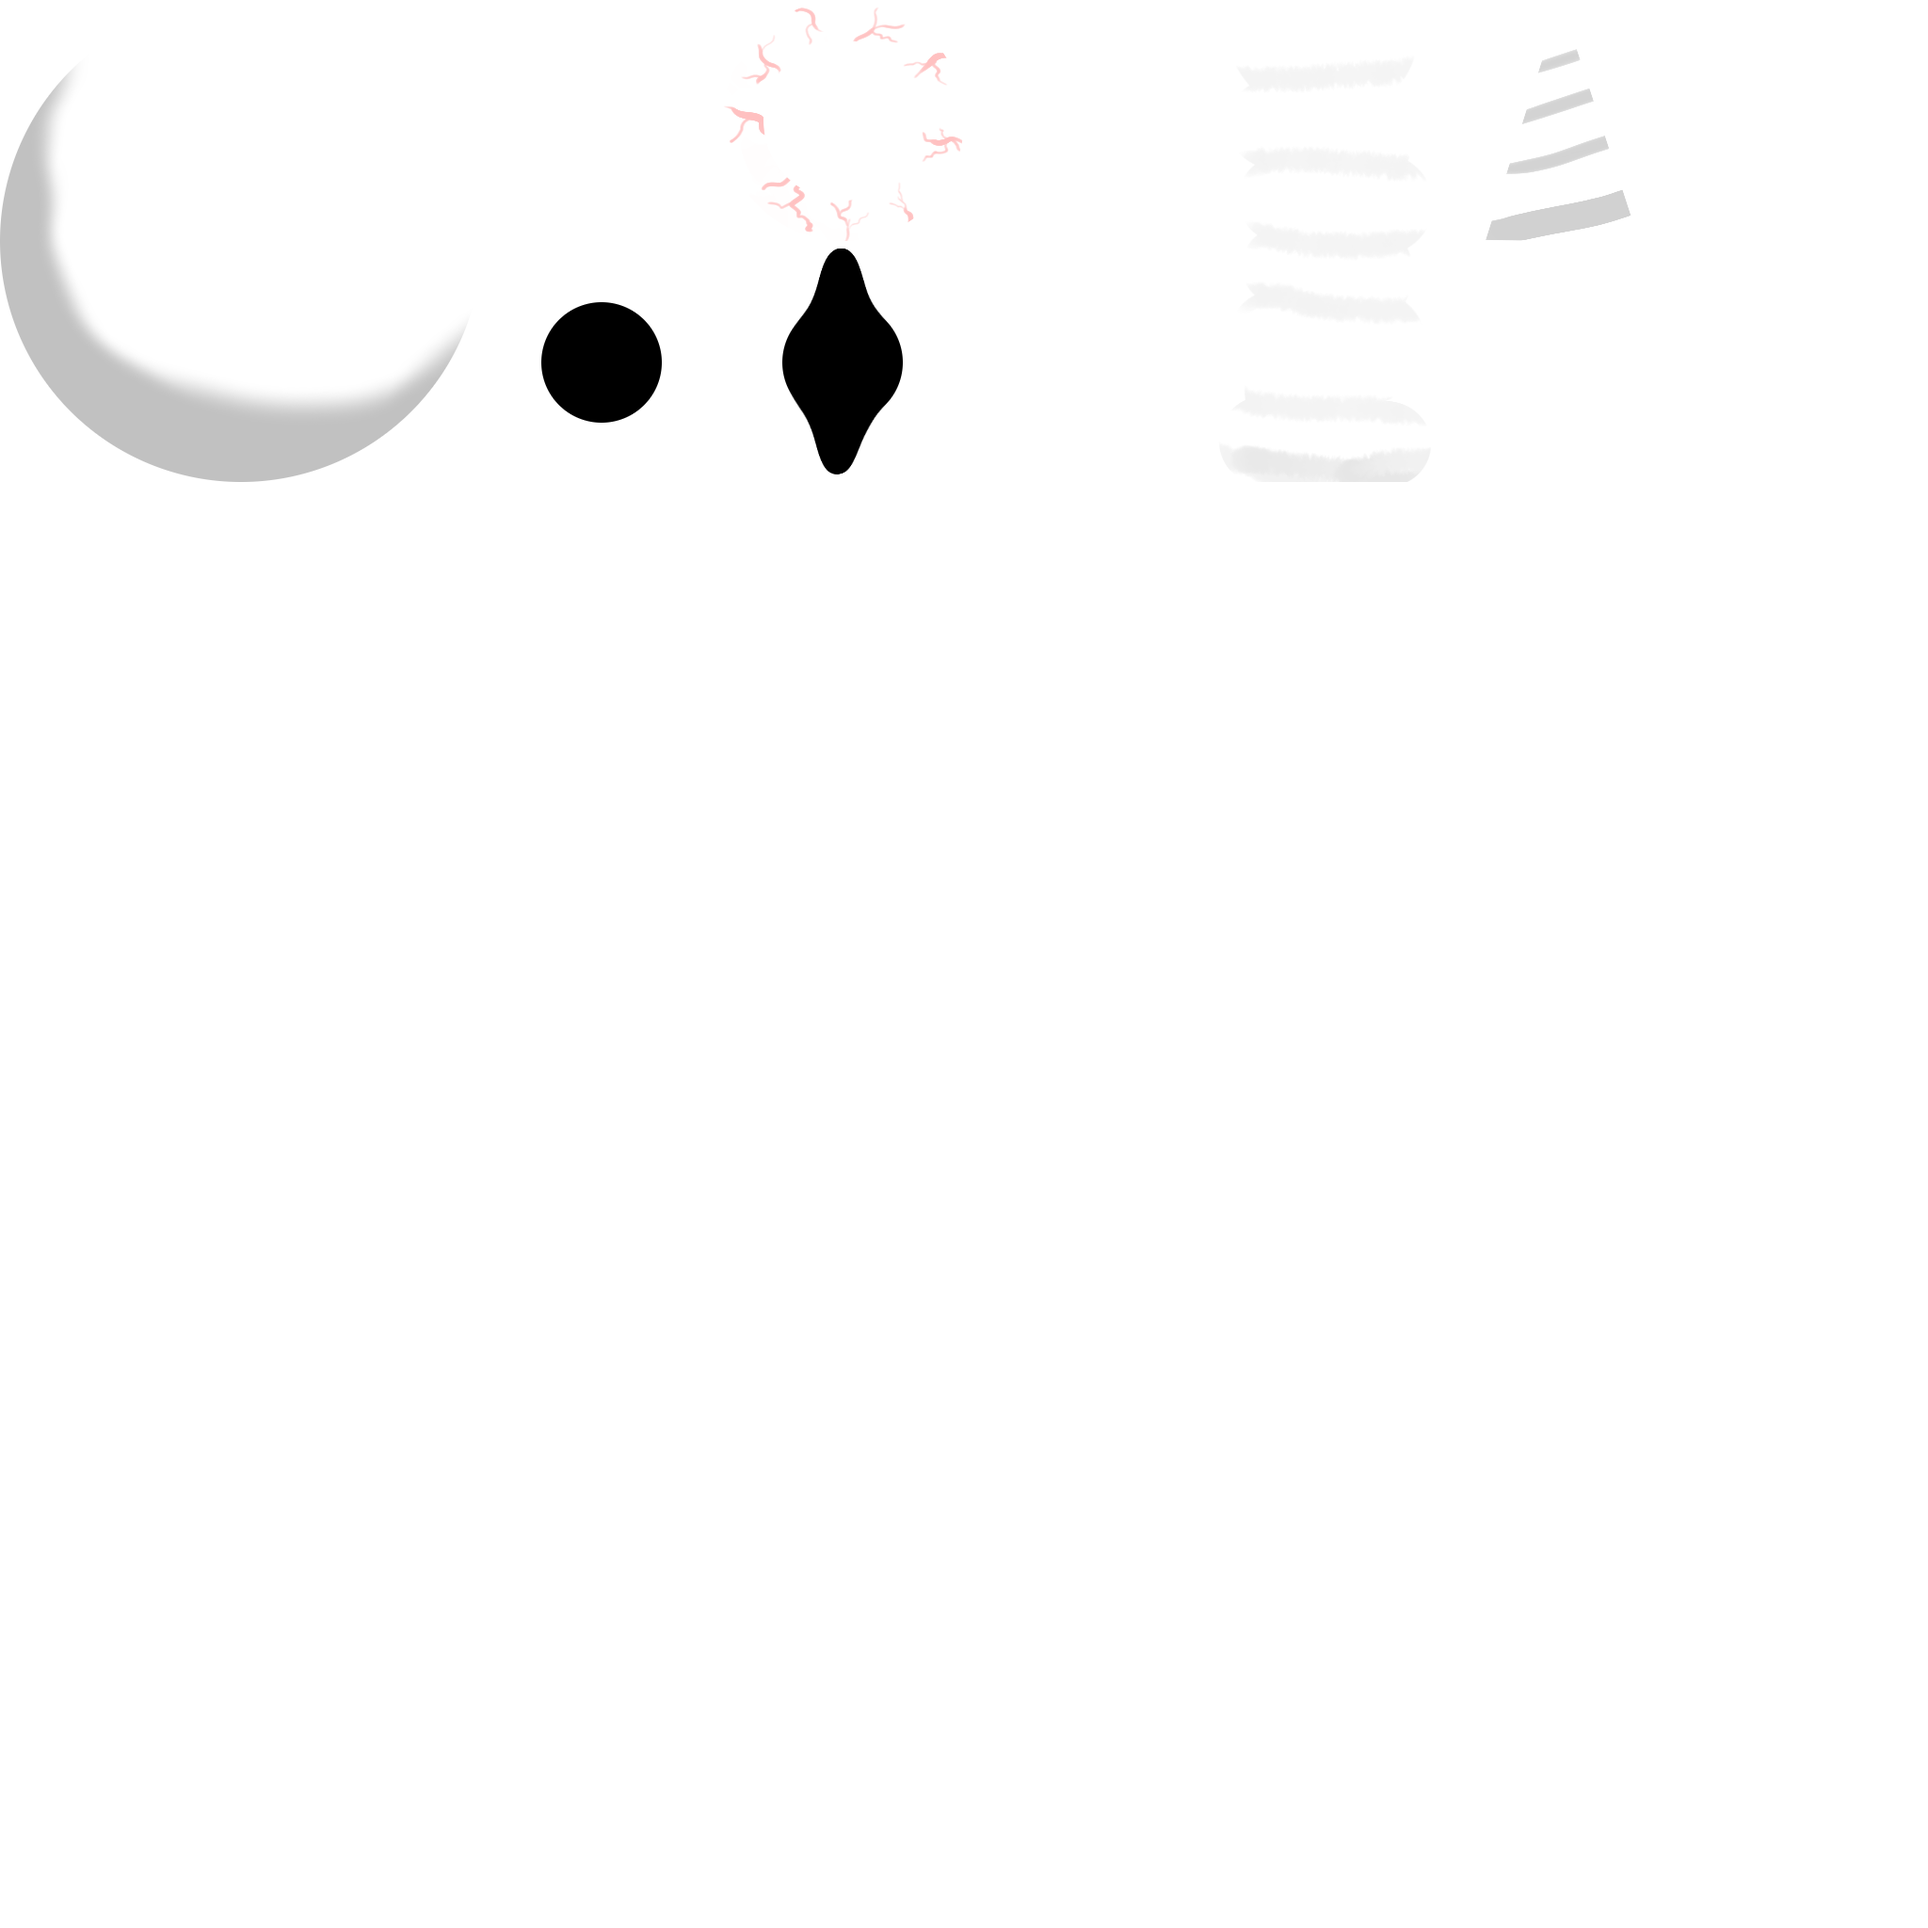
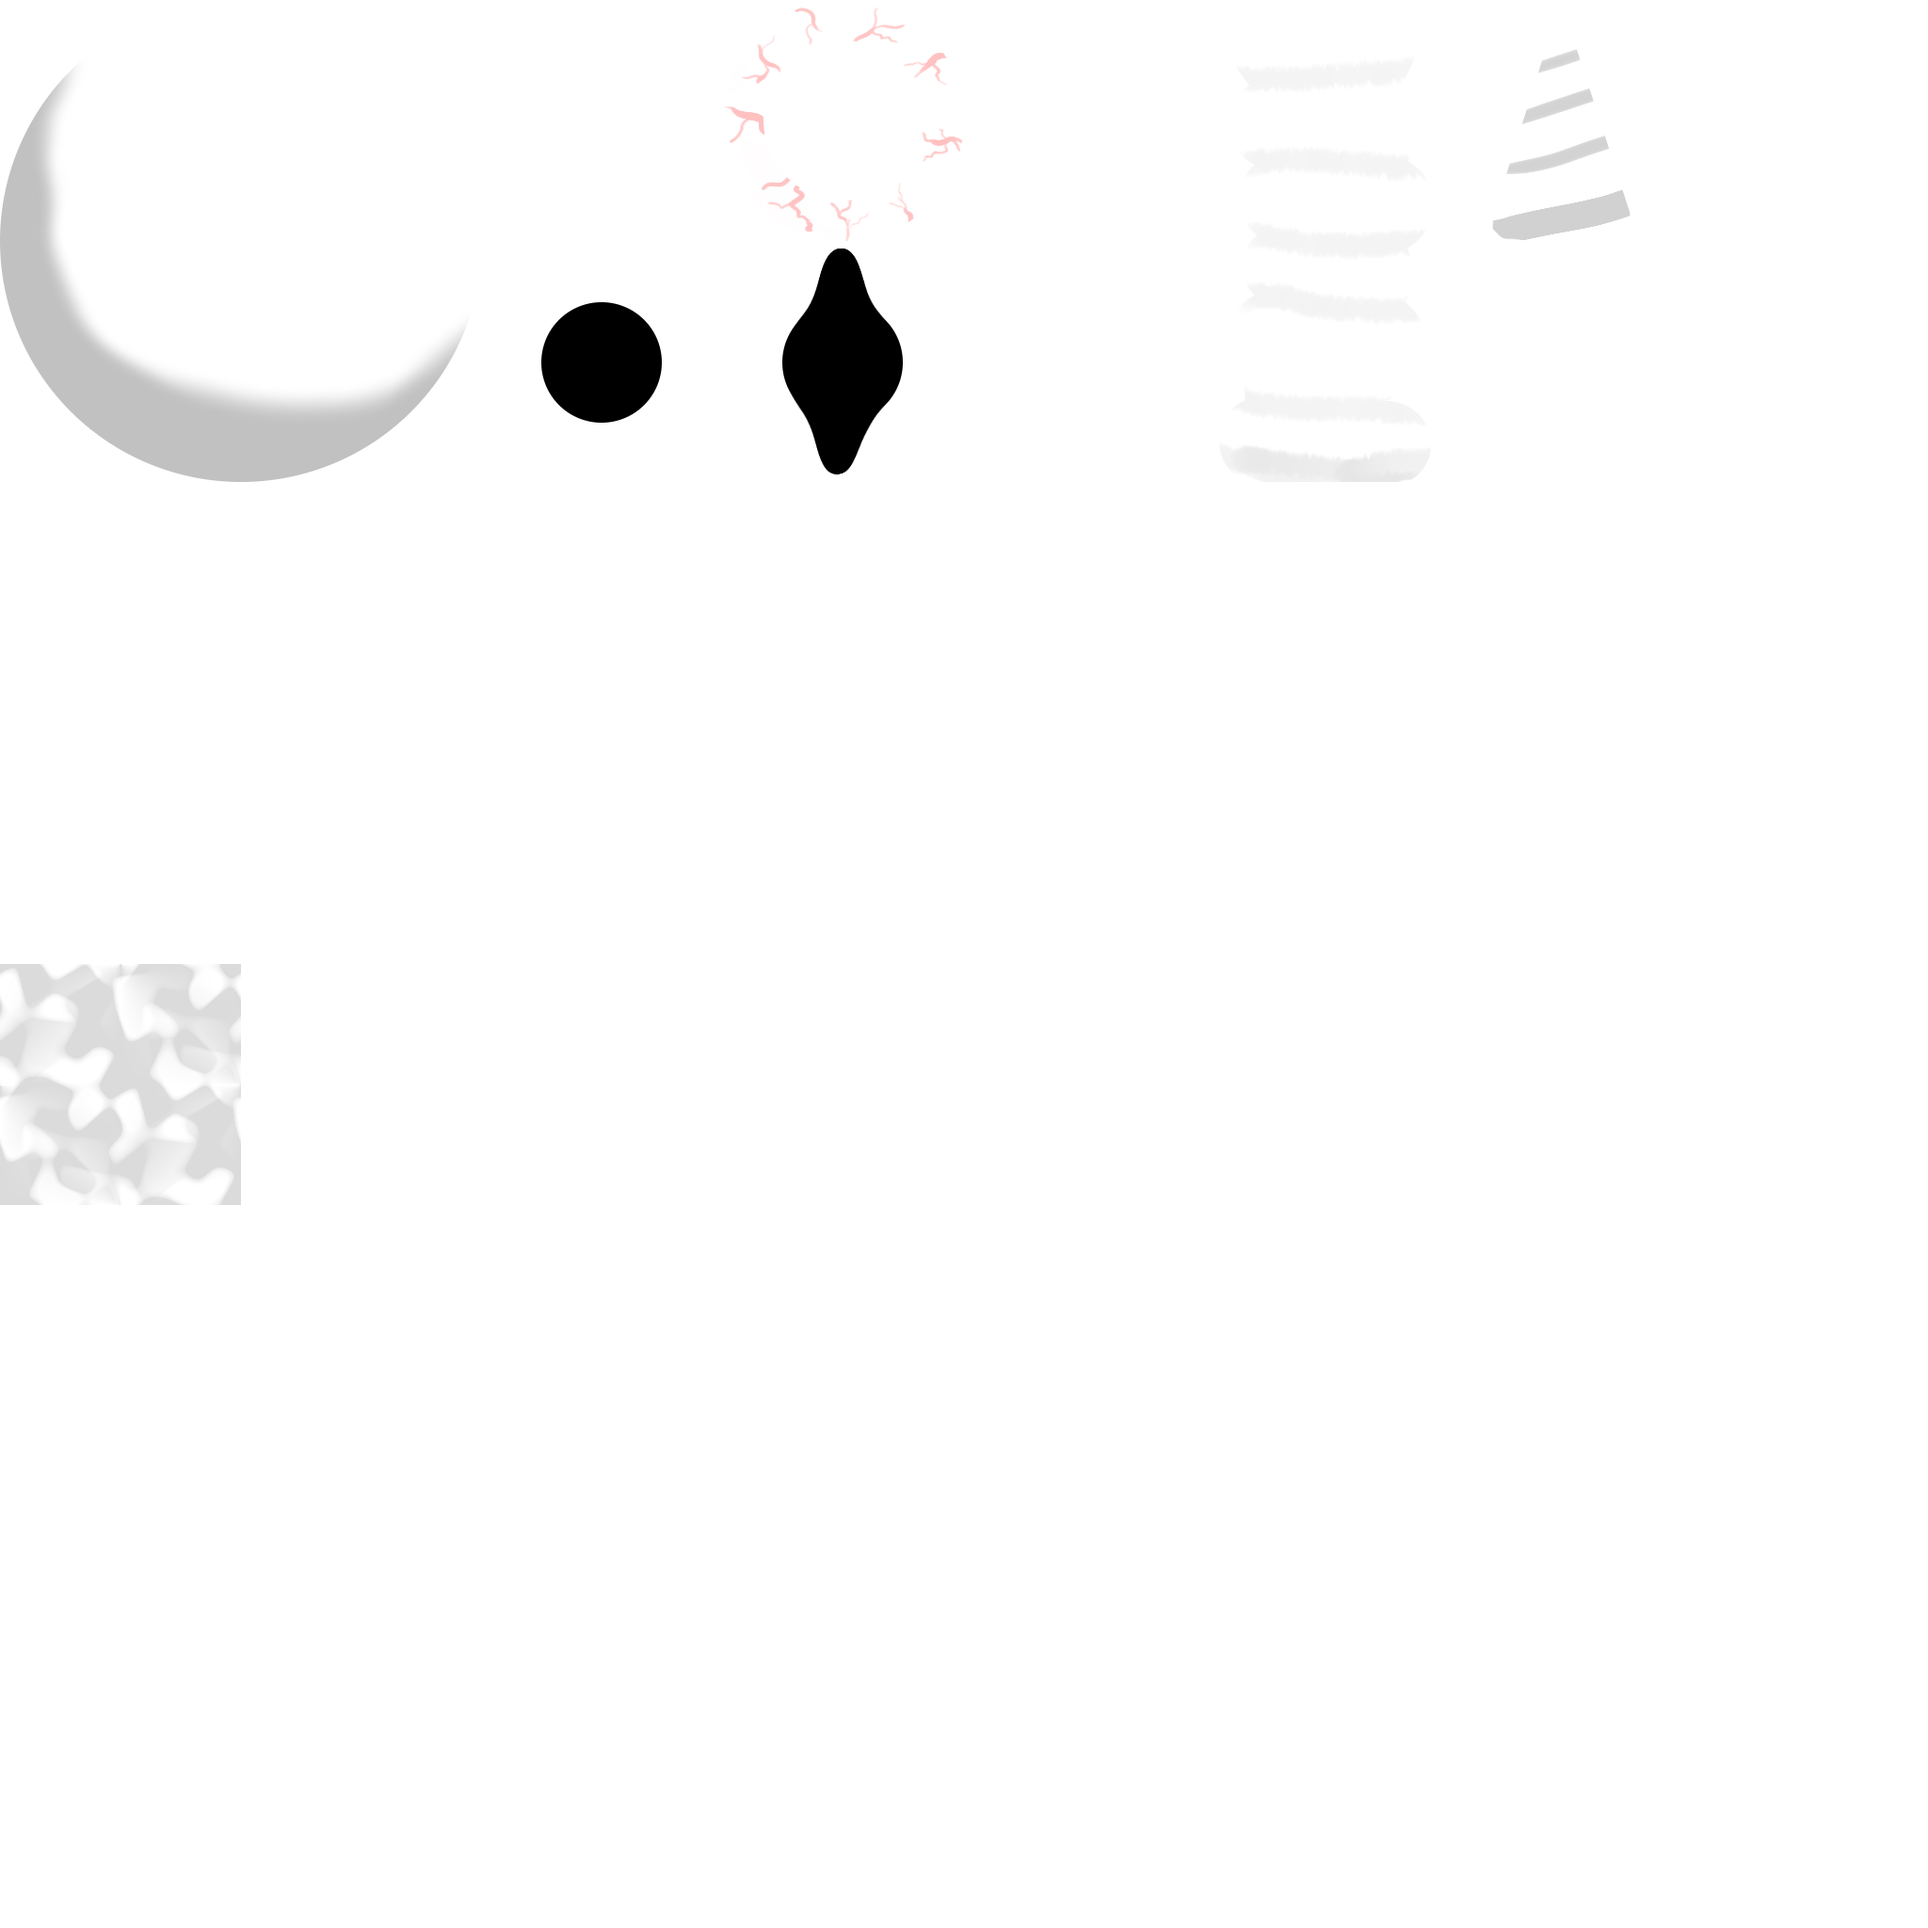
Did a quick hack of levels

Changed region(s): [[0.0, 0.5, 0.125, 0.625]]

diff --git a/app/jni/src/cunmutate.c b/app/jni/src/cunmutate.c
@@ -30,8 +30,8 @@ int init(){
 	SDL_Surface *surf;
 	SDL_Init(SDL_INIT_VIDEO);
 	if(SDL_GetCurrentDisplayMode(0, &dispmode) == 0){
-		camera.w = dispmode.w/4;
-		camera.h = dispmode.h/4;
+		camera.w = dispmode.w;
+		camera.h = dispmode.h;
 	}
 	win = SDL_CreateWindow("Shapes", SDL_WINDOWPOS_UNDEFINED, SDL_WINDOWPOS_UNDEFINED, camera.w, camera.h, SDL_WINDOW_SHOWN);
 	ren = SDL_CreateRenderer(win, -1, SDL_RENDERER_ACCELERATED);
@@ -52,7 +52,7 @@ void draw(mendel *m){
 	SDL_RenderCopyEx(ren, atlas, &rbodycircle, &r, 0, NULL, 0);
 
 	if(m->stripes){
-		SDL_SetTextureColorMod(atlas, 0x77, 0x22, 0x00);		
+		SDL_SetTextureColorMod(atlas, 0x00, 0x88, 0x44);		
 		SDL_RenderCopyEx(ren, atlas, &rbodystripes, &r, 0, NULL, 0);
 	}
 
@@ -97,6 +97,17 @@ void draw(mendel *m){
 int quit = 0;
 
 mendel creature = {0x0, 0xFF, 0x55, 100, 100, 300, 300, 1};
+mendel creature2 = {0x44, 0x33, 0x99, 200, 100, 250, 250, 0};
+
+int block_size = 64;
+
+char * level = "\
+#                  #\n\
+#                  #\n\
+##                 #\n\
+###                #\n\
+###~~~~~~~~~~~~~~~##\n\
+####################";
 
 void eloop(){
 	SDL_Rect tr = {50, 40, 200, 200};
@@ -115,7 +126,30 @@ void eloop(){
 	SDL_SetRenderDrawColor(ren, 0xFF, 0xFF, 0xFF, 0xFF );
 	SDL_RenderClear(ren);
 
+	int i = 0;
+	int newlinepos = 0;
+	int numlines = 0;
+	SDL_Rect r;
+	while(level[i]){
+		if(level[i] == '\n'){
+			newlinepos = i + 1;
+			++numlines;
+		}	
+		else if(level[i] != ' '){
+			r.x = (i - newlinepos) * block_size;
+			r.y = numlines * block_size;
+			r.w = r.h = block_size;
+			if(level[i] == '#')
+				SDL_SetTextureColorMod(atlas, 0x55, 0x33, 0x00);		
+			else if(level[i] == '~')
+				SDL_SetTextureColorMod(atlas, 0x33, 0x77, 0x00);		
+			SDL_RenderCopy(ren, atlas, &rblock, &r);
+		}
+		++i;
+	}
+
 	draw(&creature);
+	draw(&creature2);
 
 	SDL_RenderPresent(ren);
 	#ifdef __EMSCRIPTEN__

diff --git a/app/jni/src/atlas.h b/app/jni/src/atlas.h
@@ -11,3 +11,4 @@ SDL_Rect reye = {512, 256, 256, 256};
 SDL_Rect reyecat = {768, 256, 256, 256};
 SDL_Rect reyewhite = {512, 0, 256, 256};
 SDL_Rect reyewhitered = {768, 0, 256, 256};
+SDL_Rect rblock = {0, 1024, 256, 256};
